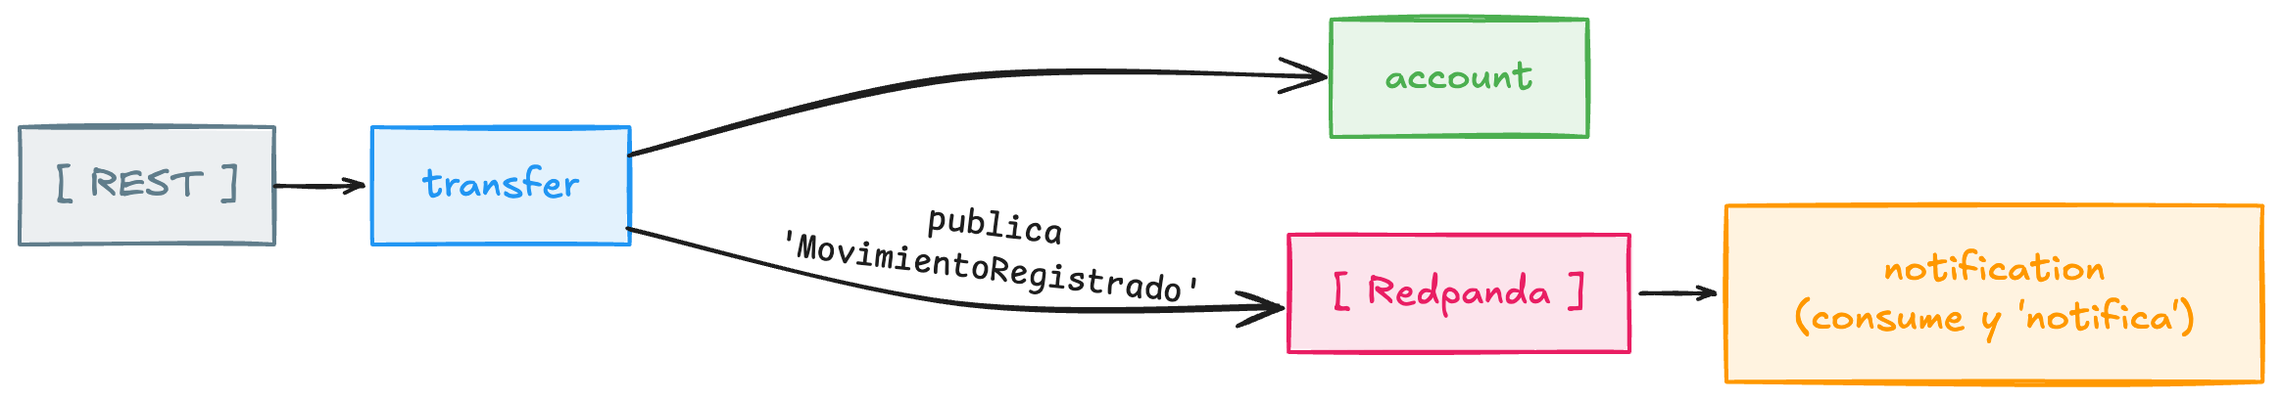
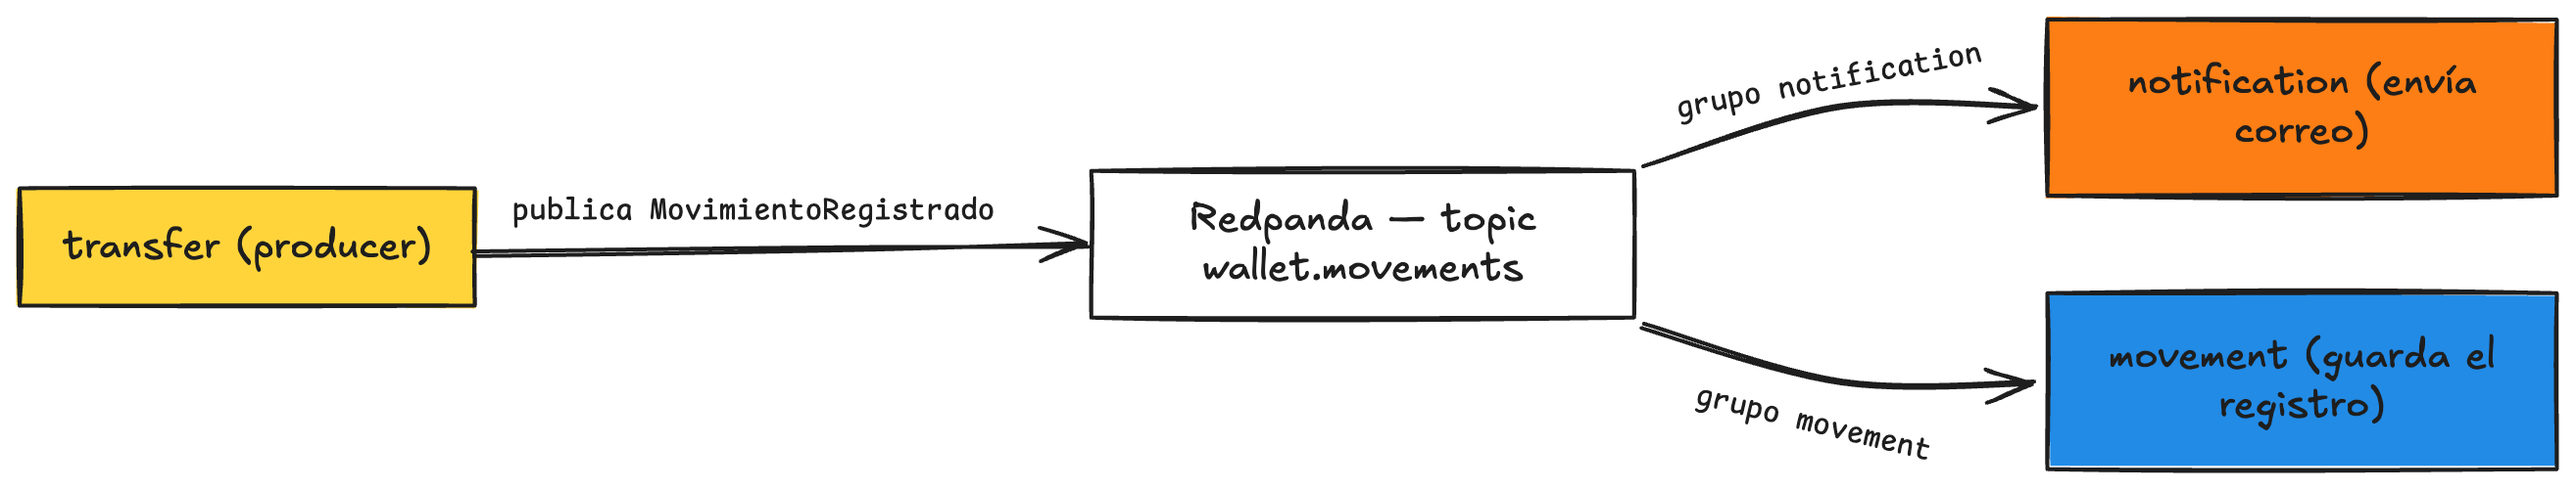
update docs

diff --git a/docs/fase-00-arranque.md b/docs/fase-00-arranque.md
@@ -1,22 +1,73 @@
 # Fase 0 · El problema y el andamiaje
 
 **Rama**: `fase-0`
-**Lo que vas a lograr**: entender qué wallet vamos a construir y por qué, generar el proyecto con el asistente de Spring, dejarlo abierto en IntelliJ con la estructura por features, y conectarlo a Supabase.
+**Lo que vas a lograr**: entender el problema y sus requisitos, ver la arquitectura de un vistazo, elegir el stack justificándolo, generar el proyecto y organizarlo por features, y conectarlo a Supabase.
 
 ---
 
-## Parte 1 — El problema en una frase
+## Parte 1 — El problema, en lenguaje natural
 
-Una billetera digital tiene que hacer algo que suena trivial y no lo es: mover plata de una cuenta a otra sin que se pierda ni se duplique un peso. Si algo falla a la mitad, no puede quedar la cuenta de origen debitada y la de destino sin acreditar. Y cada movimiento tiene que quedar registrado.
+Antes de escribir una línea, tengamos claro qué estamos resolviendo. Nada de tecnología todavía; solo el negocio.
 
-Eso es lo que vamos a construir. Primero como un endpoint REST directo. Después, cuando ya funcione, le metemos eventos para desacoplar el registro y la notificación.
+Una billetera digital tiene que hacer algo que suena trivial y no lo es: mover plata de una cuenta a otra sin que se pierda ni se duplique un peso. Si algo falla a la mitad, no puede quedar la cuenta de origen debitada y la de destino sin acreditar. Cada movimiento tiene que quedar registrado, y cuando ocurre, alguien va a querer enterarse (un correo, una alerta).
+
+Eso es todo el problema. Lo vamos a construir primero como un endpoint REST directo y, cuando ya funcione, le meteremos eventos para desacoplar el registro y la notificación.
+
+## Parte 2 — El requerimiento, como historia de usuario
+
+El problema en prosa está bien para conversar, pero para construir conviene ordenarlo. Lo escribimos como en la industria: qué debe **hacer** el sistema (funcional), cómo debe **comportarse** (no funcional) y qué **límites** no puede cruzar (restricciones).
+
+!!! abstract "Concepto al paso: funcional, no funcional y restricciones"
+    Los requisitos **funcionales** son las acciones que el sistema ofrece ("transferir plata"). Los **no funcionales** son cualidades de cómo las hace ("nunca dejar un saldo roto", "responder rápido"). Las **restricciones** son reglas duras que acotan la solución ("el dinero se representa exacto"). Separarlos evita que se te escape lo importante: casi siempre, lo que hunde un sistema de plata no es una función que falta, sino un no funcional que nadie respetó.
+
+> **Historia de usuario.** Como usuario de la wallet, quiero consultar mi saldo y transferir plata a otra cuenta, con la certeza de que ni un centavo se pierde y de que cada movimiento queda registrado.
+
+**Funcional — qué debe hacer**
+
+- Consultar el saldo de una cuenta.
+- Transferir plata de una cuenta a otra, rechazando la operación si no hay saldo suficiente.
+- Registrar cada movimiento: de quién, a quién, cuánto y cuándo.
+- Avisar cuando ocurre un movimiento (correo u otra reacción). Esto llega en la parte de eventos.
+
+**No funcional — cómo debe comportarse**
+
+- **Consistencia**: una transferencia es todo-o-nada. Jamás puede quedar la cuenta de origen debitada y la de destino sin acreditar.
+- **Exactitud del dinero**: ni un centavo perdido por redondeo.
+- **Evolución sin riesgo**: poder agregar reacciones nuevas (correo, antifraude, métricas) sin tocar el corazón de la transferencia.
+- **Trazabilidad**: cada cuenta y cada movimiento llevan registro de cuándo ocurrieron.
+
+**Restricciones — los límites duros**
+
+- El dinero se representa con precisión exacta; nada de números flotantes.
+- No se puede perder un movimiento ni procesarlo mal porque un proceso se cayó.
+- El esquema de la base viaja versionado en el repositorio, reproducible en cualquier máquina.
+
+## Parte 3 — La arquitectura, a vista de pájaro
+
+Con el problema y los requisitos claros, miremos la forma de la solución antes de elegir herramientas.
+
+![Arquitectura general: los clientes (consumers) hacen peticiones REST a la aplicación wallet, que a través de ORM/JPA lee y escribe las tablas de cuentas y transferencias en la base de datos Postgres](img/Img_0.png)
+
+Es simple a propósito: unos clientes entran por HTTP a **una aplicación** (la wallet), y esa aplicación lee y escribe en **una base de datos** relacional a través de un mapeo objeto-relacional (ORM/JPA). Toda la lógica —validar el saldo, mover la plata, registrar el movimiento— vive en esa caja del medio.
+
+Esa forma nos alcanza para las primeras fases. Más adelante, cuando entren los eventos, a la derecha aparecerá un broker por donde salen los hechos que otros servicios consumen; pero el corazón sigue siendo el mismo: clientes → aplicación → base.
+
+## Parte 4 — El stack, elegido desde los requisitos
+
+Recién ahora elegimos herramientas, y cada una responde a un requisito de arriba, no a la moda:
+
+- **Exactitud del dinero** → una base **relacional** que guarda decimales exactos (`NUMERIC`) y, en el código, `BigDecimal`. Nada de flotantes.
+- **Consistencia todo-o-nada** → una base con **transacciones ACID**. Postgres las tiene, y Spring nos deja envolver una operación en una transacción con una anotación.
+- **Base gestionada, sin dolor de instalación** → **Supabase**, un Postgres en la nube detrás de un login.
+- **Esquema versionado y reproducible** → **Flyway**, que aplica migraciones SQL numeradas y anota cuáles ya corrió.
+- **Menos plomería, servidor listo** → **Spring Boot**, que trae servidor web, acceso a datos e inyección de dependencias sin que configures medio mundo.
+- **Lenguaje expresivo y seguro** → **Kotlin**: `data class` para objetos de datos en una línea, null-safety para que los nulos no exploten en runtime, y `sealed class` para modelar con exactitud los finales de una operación (lo verás en la transferencia).
+- **Evolución sin riesgo** → **mensajería por eventos** con **Kafka/Redpanda**, que entra en la segunda parte para desacoplar las reacciones.
 
 !!! abstract "Concepto al paso: qué es Spring Boot"
     Spring Boot es un framework para armar aplicaciones backend en la JVM sin configurar medio mundo a mano. Te da un servidor web embebido, conexión a base de datos, inyección de dependencias y un montón de piezas listas para usar. Tú te concentras en tu lógica; Boot cablea lo aburrido.
 
-## Parte 2 — Generar el proyecto con Spring Initializr
-
-Spring Initializr es un asistente web que arma el esqueleto del proyecto. Entra a [https://start.spring.io](https://start.spring.io) y llena:
+Con las decisiones tomadas, generamos el esqueleto. **Spring Initializr** es un asistente web que lo arma por ti. Entra a [https://start.spring.io](https://start.spring.io) y llena:
 
 | Campo | Valor |
 |-------|-------|
@@ -29,7 +80,7 @@ Spring Initializr es un asistente web que arma el esqueleto del proyecto. Entra 
 | Packaging | **Jar** |
 | Java | **25** |
 
-En **Dependencies**, agrega estas cuatro por ahora (la de Kafka la sumamos en la Fase 6):
+En **Dependencies**, agrega estas por ahora (la de Kafka la sumamos en la Fase 6):
 
 | Dependencia | Para qué |
 |-------------|----------|
@@ -44,7 +95,7 @@ Haz clic en **GENERATE**, descomprime dentro de tu repo y ábrelo en IntelliJ (*
 !!! note "El plugin `kotlin-jpa` ya viene"
     Si generaste con JPA, el `build.gradle.kts` trae el plugin `kotlin("plugin.jpa")`. Ese plugin le genera por detrás a tus entidades el constructor sin argumentos que JPA exige, sin que tú tengas que escribirlo. Sin él, las entidades de Kotlin no arrancan.
 
-## Parte 3 — Cómo organizamos el código
+## Parte 5 — Cómo organizamos el código
 
 Acá tomamos la decisión de organización más importante del taller, y la vamos a explicar con calma porque de esto depende cómo se ve todo lo que sigue. Si nunca has pensado en "arquitectura de software", tranquilo: por ahora es solo **dónde poner cada archivo y por qué**.
 
@@ -106,7 +157,7 @@ com.baqjug.wallet
 !!! note "¿De dónde sale todo esto?"
     Este patrón lo popularizó Siva Prasad Reddy con el nombre de **Tomato Architecture**. El nombre no significa nada (igual que "hexagonal" tampoco); es un guiño para no tomarse la arquitectura tan en serio. Si quieres el detalle, está en [su blog](https://www.sivalabs.in/blog/tomato-architecture-pragmatic-approach-to-software-design/). Lo que nos importa acá: package-by-feature, servicios concretos, y abrazar el framework en vez de envolverlo en abstracciones.
 
-## Parte 4 — Conectar Supabase
+## Parte 6 — Conectar Supabase
 
 Abre tu proyecto de Supabase, ve a **Project Settings → Database** y copia los datos de conexión. Vamos a pasárselos a Spring por variables de entorno, no quemados en el código.
 

diff --git a/diagrams/diagramas-mermaid.md b/diagrams/diagramas-mermaid.md
@@ -1,0 +1,155 @@
+# Diagramas del taller (código Mermaid para Excalidraw)
+
+Excalidraw importa Mermaid **nativo** solo para tres tipos: `flowchart`, `sequenceDiagram` y `classDiagram`. Cualquier otro tipo lo mete como imagen plana (no editable). Por eso este set usa solo esos tres, y a propósito **varía el tipo** para que los diagramas no se vean todos iguales.
+
+**Cómo usarlos:** entra a [excalidraw.com](https://excalidraw.com/) → menú (☰) → **Mermaid to Excalidraw** → pega el bloque → *Insert* → estiliza y exporta como PNG.
+
+!!! tip "Evita el glitch del `\n`"
+    En el diagrama viejo, algunas cajas mostraban un `\n` literal. Eso pasa cuando el texto trae saltos de línea que Excalidraw no interpreta. Acá dejé todas las etiquetas en una sola línea a propósito. Si necesitas partir una etiqueta, hazlo en Excalidraw después de importar, no en el Mermaid.
+
+---
+
+## 1. Arquitectura general — *flowchart* (Fase 0 / inicio)
+
+Reemplazo editable del diagrama "cliente → app → base".
+
+```mermaid
+flowchart LR
+    C["Cliente / consumer REST"]
+    subgraph App["Aplicación (wallet)"]
+        API["REST · WalletBAQ"]
+    end
+    subgraph Datos["Base de datos"]
+        DB[("Postgres")]
+    end
+    C -->|HTTP| API
+    API -->|ORM / JPA| DB
+```
+
+---
+
+## 2. Flujo de una transferencia — *sequence* (Fase 3 y 4)
+
+Muestra el orden temporal y que todo pasa dentro de una transacción. (Tipo distinto: diagrama de secuencia.)
+
+```mermaid
+sequenceDiagram
+    actor U as Cliente
+    participant TC as TransferController (web)
+    participant TS as TransferService (domain)
+    participant AS as AccountService (domain)
+    participant MS as MovementService (domain)
+    U->>TC: POST /api/transfers
+    TC->>TS: transfer(request)
+    Note over TS,MS: todo dentro de @Transactional
+    TS->>AS: moveMoney(from, to, amount)
+    AS-->>TS: MoveResult.Success
+    TS->>MS: record(from, to, amount)
+    MS-->>TS: ok
+    TC-->>U: 200 COMPLETED
+```
+
+---
+
+## 3. Modelo por feature (account) — *class* (Fase 2 y 3)
+
+Las clases clave y cómo se relacionan: entidad vs DTO, el mapper, el servicio concreto, el repositorio como interfaz. (Tipo distinto: diagrama de clases.)
+
+```mermaid
+classDiagram
+    class AccountEntity {
+        +UUID id
+        +String owner
+        +String email
+        +BigDecimal balance
+        +Instant createdAt
+        +Instant updatedAt
+    }
+    class AccountResponse {
+        +UUID id
+        +String owner
+        +String email
+        +BigDecimal balance
+    }
+    class AccountService {
+        +getById(id) AccountResponse
+        +moveMoney(from, to, amount) MoveResult
+    }
+    class AccountMapper {
+        +toResponse(entity) AccountResponse
+    }
+    class AccountRepository {
+        <<interface>>
+    }
+    class MoveResult {
+        <<sealed>>
+    }
+    AccountService --> AccountRepository : usa
+    AccountService --> AccountMapper : usa
+    AccountService ..> MoveResult : devuelve
+    AccountMapper --> AccountEntity : lee
+    AccountMapper --> AccountResponse : produce
+    AccountRepository --> AccountEntity : gestiona
+```
+
+---
+
+## 4. Pub/Sub de eventos — *flowchart* (Fase 5 y 7)
+
+Un evento, dos grupos de consumidores. Cada grupo recibe su copia.
+
+```mermaid
+flowchart LR
+    T["transfer (producer)"] -->|"publica MovimientoRegistrado"| K{{"Redpanda — topic wallet.movements"}}
+    K -->|"grupo notification"| N["notification (envía correo)"]
+    K -->|"grupo movement"| M["movement (guarda el registro)"]
+```
+
+---
+
+## 5. Patrón outbox — *sequence* (Fase 8)
+
+El evento y el dato se guardan juntos en una transacción; un relay aparte publica. (Secuencia con `loop`.)
+
+```mermaid
+sequenceDiagram
+    participant TS as TransferService
+    participant DB as Postgres
+    participant R as OutboxRelay
+    participant K as Redpanda
+    Note over TS,DB: una sola transacción
+    TS->>DB: mover saldo + guardar fila en outbox
+    loop cada 2s
+        R->>DB: lee filas no enviadas (FOR UPDATE SKIP LOCKED)
+        R->>K: publica el evento
+        R->>DB: marca sent_at
+    end
+```
+
+---
+
+## 6. Coroutines: llamadas en paralelo — *sequence* (Fase 9)
+
+El consumidor llama a tres servicios externos a la vez con `async`/`awaitAll`. (Secuencia con bloque `par`.)
+
+```mermaid
+sequenceDiagram
+    participant L as Listener (suspend)
+    participant NS as NotificationService
+    participant E as EmailClient
+    participant P as PushClient
+    participant A as AntifraudClient
+    L->>NS: notificar(evento)
+    Note over NS,A: coroutineScope { async ... }
+    par en paralelo
+        NS->>E: enviar()
+    and
+        NS->>P: enviar()
+    and
+        NS->>A: revisar()
+    end
+    E-->>NS: ok
+    P-->>NS: ok
+    A-->>NS: ok
+    Note over NS: awaitAll — ~200 ms, no 600 ms
+```

diff --git a/docs/fase-04-movimientos.md b/docs/fase-04-movimientos.md
@@ -132,6 +132,10 @@ class TransferService(
 !!! danger "Acá está la costura"
     Fíjate qué acabamos de hacer: `transfer` ahora **conoce** a `movement` y lo llama en línea, en la rama `Success`. Funciona. Pero si mañana además hay que mandar un correo, disparar un push y avisar a antifraude, todos esos van a colgarse de esta misma rama. Y si `movement` se pone lento o falla, la transferencia se cuelga o se cae con él. Esa es exactamente la costura que en la Fase 6 vamos a cortar con eventos.
 
+Visto de punta a punta, así recorre una transferencia exitosa el flujo síncrono, ya con el registro del movimiento incluido:
+
+![Diagrama de secuencia de una transferencia: el cliente hace POST /api/transfers al TransferController, que llama a TransferService dentro de una transacción; este pide moveMoney a AccountService y luego record a MovementService, y responde 200 COMPLETED](img/Img_1.png)
+
 ## Parte 4 — Un test que corre sin base
 
 Antes de cerrar, un test de la orquestación de `transfer`. Lo bueno: no necesita base ni Spring. Como `transfer` depende de dos clases concretas (`AccountService` y `MovementService`), las **mockeamos**: creamos versiones falsas al vuelo, les decimos qué responder, y verificamos con quién habló `transfer`.

diff --git a/docs/fase-07-consumir-evento.md b/docs/fase-07-consumir-evento.md
@@ -153,6 +153,8 @@ class MovimientoPersistenceListener(
 !!! danger "Grupos distintos: los dos reciben cada evento"
     Fíjate: `notification` está en el grupo `notification` y `movement` en el grupo `movement`. Como son grupos distintos, **cada uno recibe una copia** de cada evento. Una sola transferencia dispara un aviso y un registro, en paralelo, sin que se pisen. Si ambos estuvieran en el mismo grupo, el broker le daría el evento a uno solo. Esa diferencia es el corazón del pub/sub.
 
+![Diagrama de flujo del pub/sub: transfer publica el evento MovimientoRegistrado en el topic wallet.movements de Redpanda; el grupo notification lo recibe y envía el correo, y el grupo movement lo recibe y guarda el registro](img/Img_2.png)
+
 !!! note "Un consumidor nuevo no toca a `transfer`"
     Este es el pago de todo el trabajo. Agregaste dos consumidores y no tocaste una línea de `transfer`. Mañana quieres antifraude: creas otro `@KafkaListener` con su grupo y listo. `transfer` ni se entera. Compara eso con la rama `Success` de la Fase 4, donde cada cosa nueva era editar y redesplegar `transfer`.
 

diff --git a/diagrams/mmd/LEEME.md b/diagrams/mmd/LEEME.md
@@ -1,0 +1,17 @@
+# Diagramas Mermaid → Excalidraw → PNG
+
+Cada `.mmd` de esta carpeta es un diagrama listo para pegar en Excalidraw:
+**☰ menú → "Mermaid to Excalidraw" → pega el contenido → Insert → estiliza → exporta PNG a `docs/img/`.**
+
+| Archivo .mmd | Exportar como | Tipo | Fase | Nota |
+|--------------|---------------|------|------|------|
+| `Img_1.mmd` | `docs/img/Img_1.png` | sequence | 3, 4 | reemplaza el flujo síncrono actual |
+| `Img_2.mmd` | `docs/img/Img_2.png` | flowchart | 5, 7 | reemplaza el flujo por eventos actual |
+| `Img_4.mmd` | `docs/img/Img_4.png` | class | 2, 3 | nuevo (modelo de la feature account) |
+| `Img_5.mmd` | `docs/img/Img_5.png` | sequence | 8 | nuevo (patrón outbox) |
+| `Img_6.mmd` | `docs/img/Img_6.png` | sequence | 9 | nuevo (coroutines en paralelo) |
+
+`Img_0.png` (arquitectura) e `Img_3.png` (antes/después) se quedan como están.
+
+Todas las etiquetas van en una sola línea a propósito, para evitar el glitch del `\n` en Excalidraw.
+Los seis diagramas fueron validados con el parser oficial de Mermaid (0 errores).

diff --git a/docs/fase-09-coroutines.md b/docs/fase-09-coroutines.md
@@ -91,6 +91,10 @@ class NotificationService(
 
 Fíjate qué cambió. `notificar` ahora es `suspend`. Las tres llamadas se lanzan con `async`, así que arrancan **a la vez** en vez de una tras otra. `awaitAll` espera a que las tres terminen. Y mientras cada una espera su respuesta de red, **no bloquea ningún hilo**. Total: ~200 ms (lo que tarde la más lenta), no 600 ms, y sin hilos congelados.
 
+En el tiempo, las tres llamadas se solapan en vez de hacer fila:
+
+![Diagrama de secuencia con coroutines: el listener suspendido llama a NotificationService, que dentro de un coroutineScope lanza en paralelo con async las llamadas a EmailClient, PushClient y AntifraudClient; con awaitAll espera las tres, que juntas tardan ~200 ms en vez de 600 ms](img/Img_6.png)
+
 Los clientes son, a su vez, funciones suspendidas. Con `WebClient` (el cliente HTTP reactivo de Spring) y sus extensiones de Kotlin, la llamada por red se vuelve suspendida con `awaitBody`:
 
 ```kotlin title="notification/domain/EmailClient.kt"

diff --git a/docs/index.md b/docs/index.md
@@ -25,7 +25,7 @@ Esa caja del medio, la aplicación, es donde vive todo lo que vamos a escribir. 
 
 En la parte de eventos, el registro deja de ser una llamada directa y pasa a publicarse:
 
-![Flujo por eventos: transfer mueve el saldo en account y publica el evento MovimientoRegistrado en Redpanda; notification lo consume desde el otro lado y notifica](img/Img_2.png)
+![Flujo por eventos: transfer publica el evento MovimientoRegistrado en el topic de Redpanda, y dos grupos de consumidores lo reciben cada uno por su cuenta: notification (envía el correo) y movement (guarda el registro)](img/Img_2.png)
 
 El cambio se ve chico en el diagrama, pero es el corazón de la segunda parte: `transfer` deja de saber quién registra o notifica. Solo suelta un evento. Quién lo escuche, y cuántos lo escuchen, ya no es su problema.
 

diff --git a/docs/fase-08-que-sigue.md b/docs/fase-08-que-sigue.md
@@ -83,6 +83,10 @@ class OutboxRelay(
 }
 ```
 
+Todo el ciclo, de la transacción al broker, se ve así:
+
+![Diagrama de secuencia del patrón outbox: TransferService mueve el saldo y guarda una fila en la tabla outbox dentro de una sola transacción en Postgres; un OutboxRelay, cada 2 segundos, lee las filas no enviadas con FOR UPDATE SKIP LOCKED, las publica en Redpanda y marca sent_at](img/Img_5.png)
+
 !!! note "Por qué no lo metimos en el taller en vivo"
     El outbox agrega una tabla, un relay con `@Scheduled` y serialización a mano. Para 60 minutos, habría tapado el concepto central (publicar y consumir) con plomería. Pero en algo con plata, el outbox no es opcional: es la diferencia entre "casi siempre avisa" y "siempre avisa".
 

diff --git a/docs/fase-03-transferencia.md b/docs/fase-03-transferencia.md
@@ -248,6 +248,10 @@ curl -X POST http://localhost:8080/api/transfers \
 
 Consulta los saldos después: Elena quedó en 70000 y Geovanny en 30000. Intenta ahora transferir 999999 y te da `422 Saldo insuficiente`, sin mover un peso.
 
+Con esto, la feature `account` ya tiene todas sus piezas conectadas: la entidad, el DTO, el mapper, el servicio y el repositorio.
+
+![Diagrama de clases de la feature account: AccountEntity (entidad JPA) y AccountResponse (DTO de salida) unidos por AccountMapper; AccountService usa AccountRepository (interfaz) y AccountMapper, y devuelve un MoveResult (sealed class)](img/Img_4.png)
+
 ## Cierre de la fase
 
 ```bash
